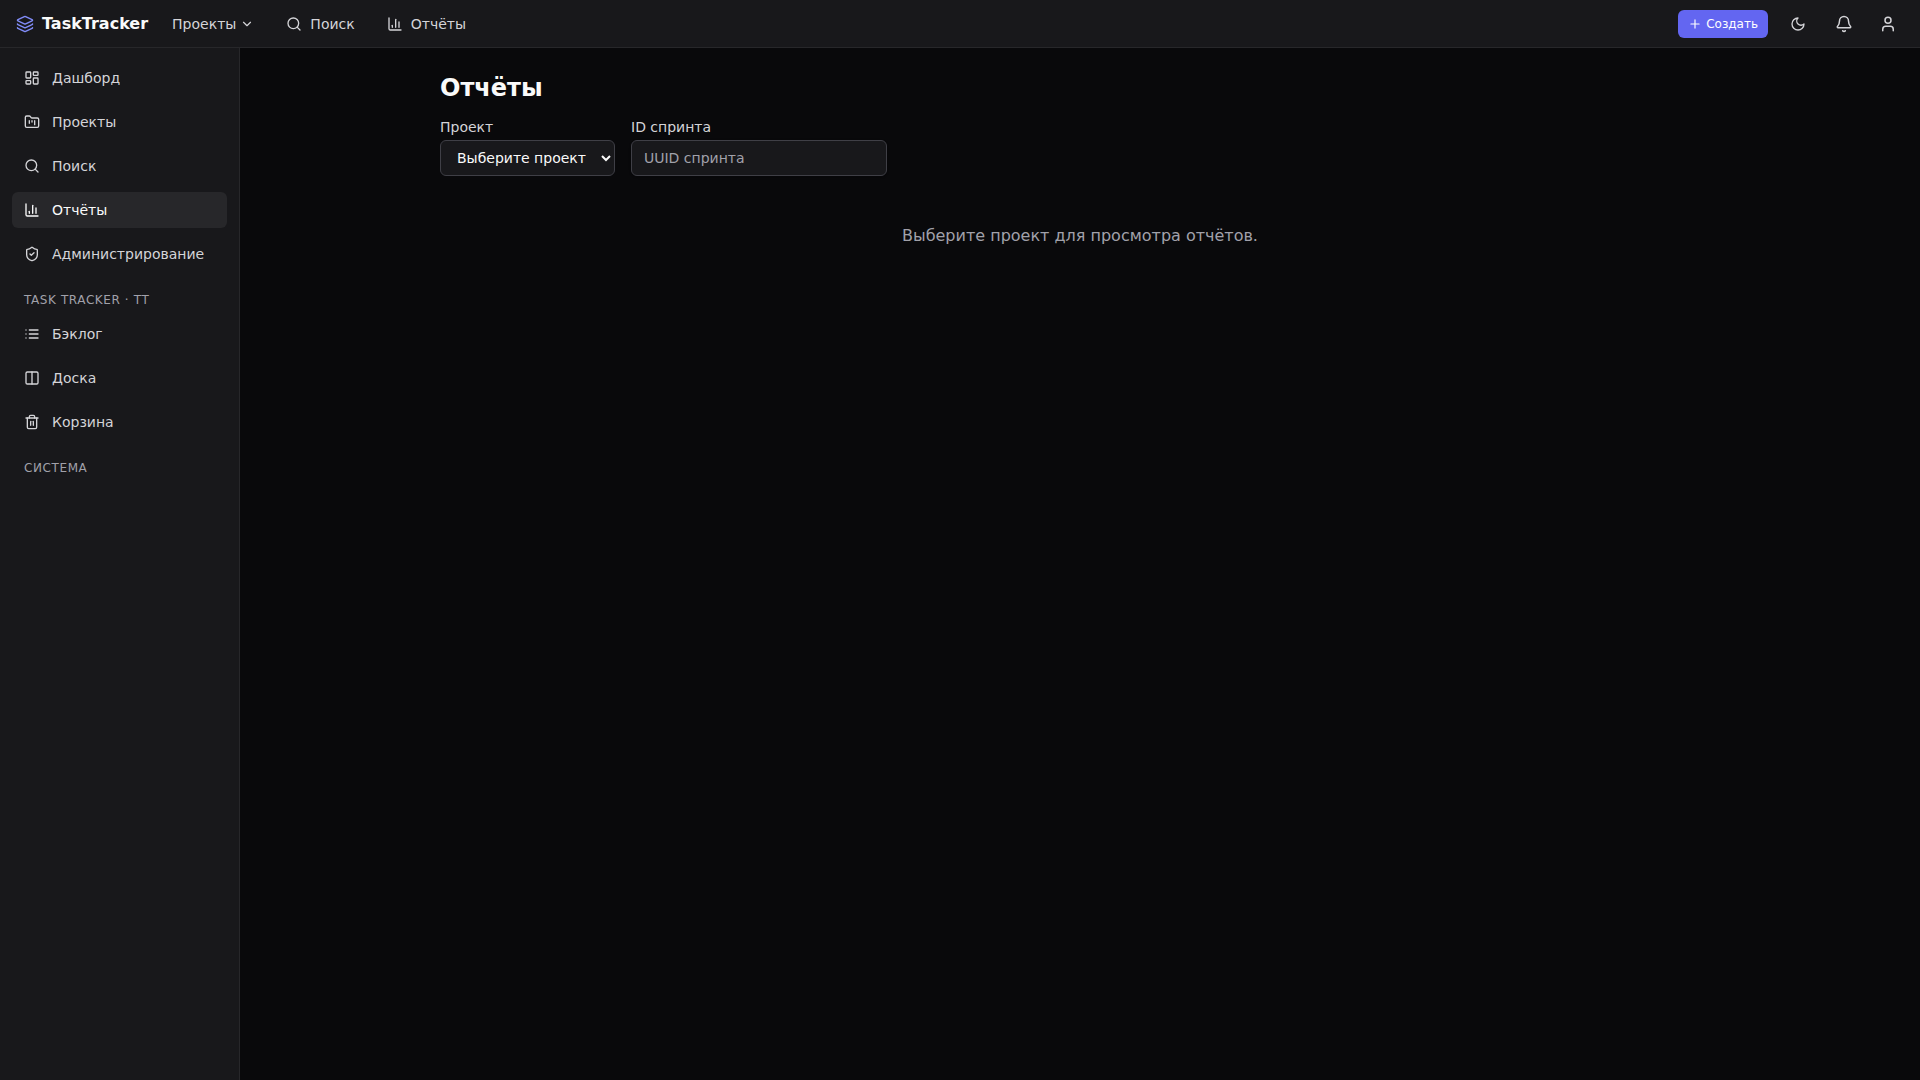
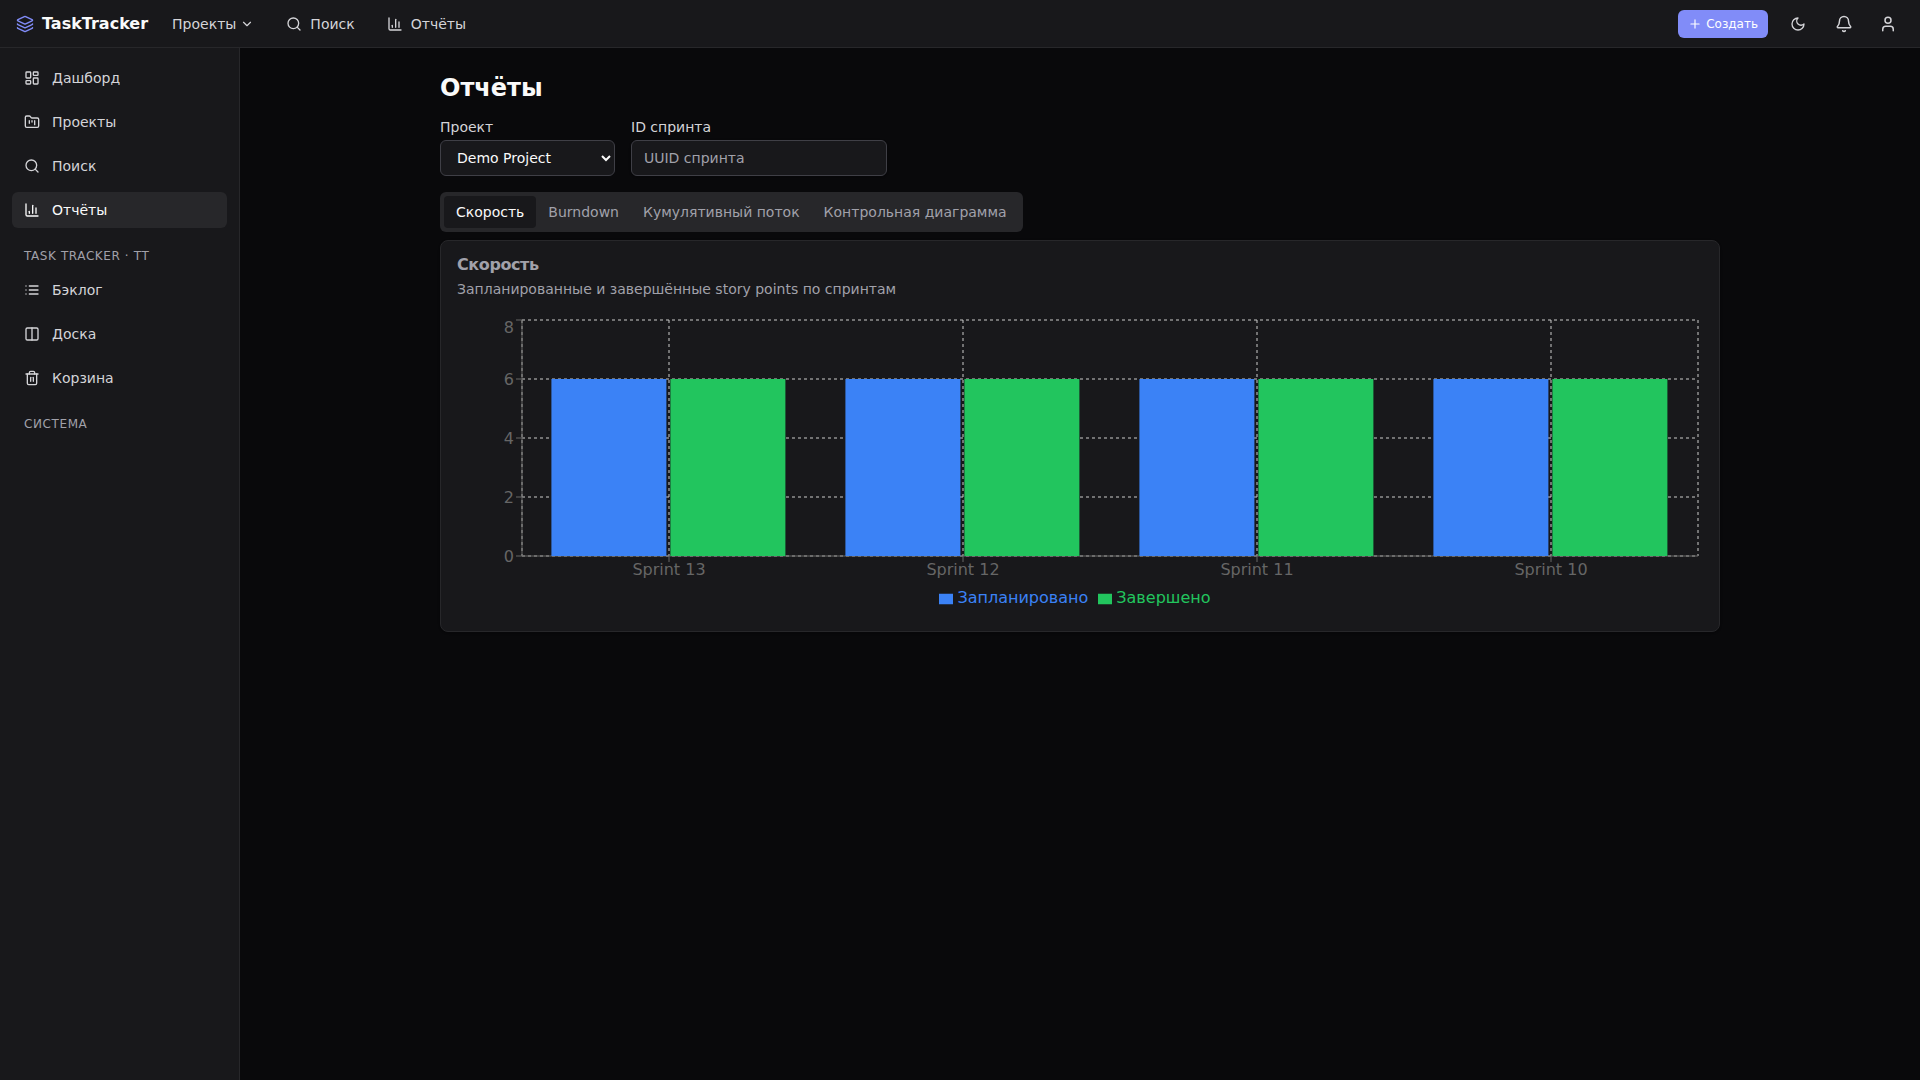
docs: reports screenshot with seeded velocity data + reports screenshot spec
Demo data: 4 closed sprints (6 committed / 6 completed each), active sprint
with partial completion (burndown 6→3), status transition history for the
control chart (28 points), worklogs. Screenshot spec is self-contained
(fetches active sprint id, selects Demo Project, captures all 4 report tabs).

diff --git a/frontend/e2e/reports-screenshots.spec.ts b/frontend/e2e/reports-screenshots.spec.ts
@@ -1,0 +1,114 @@
+import { test, expect, Page } from '@playwright/test'
+import { seedIntegrationData } from './setup'
+
+const baseURL = process.env.PLAYWRIGHT_BASE_URL ?? 'http://localhost:4173'
+
+let cachedAuth: { token: string; userId: string; email: string } | null = null
+
+async function authenticate(p: Page) {
+  // One login per worker: reusing the seeded context avoids tripping the
+  // auth rate limiter (5 req / 15 s) with a login per screenshot.
+  if (!cachedAuth) {
+    const ctx = await seedIntegrationData()
+    cachedAuth = { token: ctx.token, userId: ctx.userId, email: 'demo@example.com' }
+  }
+  const { token: access_token, userId: user_id, email } = cachedAuth
+  await p.goto(`${baseURL}/login`)
+  await p.evaluate(
+    (payload: { token: string; userId: string; email: string }) => {
+      // zustand persist stores {state:{...},version:0}; the app rehydrates from .state.
+      window.localStorage.setItem(
+        'task-tracker-auth',
+        JSON.stringify({ state: payload, version: 0 }),
+      )
+    },
+    { token: access_token, userId: user_id, email },
+  )
+}
+
+async function setThemeAndGoto(p: Page, theme: 'light' | 'dark', path: string, marker: string) {
+  await p.addInitScript((t) => {
+    document.documentElement.classList.toggle('dark', t === 'dark')
+    try {
+      localStorage.setItem('vite-ui-prefers-dark', JSON.stringify(t === 'dark'))
+    } catch {
+      // storage unavailable
+    }
+  }, theme)
+  await p.goto(`${baseURL}${path}`)
+  // SSE connection stays open forever, so networkidle never fires on authed pages.
+  await p.waitForFunction((text: string) => document.body.innerText.includes(text), marker, {
+    timeout: 10_000,
+  })
+  await p.waitForTimeout(300)
+}
+
+test.describe('reports screenshots', () => {
+  test.setTimeout(120_000)
+
+  test.beforeAll(async () => {
+    await seedIntegrationData()
+  })
+
+  const tabs: Array<{ tab: string; trigger: RegExp; name: string; waitFor: string | RegExp }> = [
+    {
+      tab: 'velocity',
+      trigger: /скорость|velocity/i,
+      name: 'velocity',
+      waitFor: 'Sprint 10',
+    },
+    {
+      tab: 'burndown',
+      trigger: /burndown/i,
+      name: 'burndown',
+      waitFor: /оставшиеся|remaining/i,
+    },
+    {
+      tab: 'cumulative-flow',
+      trigger: /кумулятивн|cumulative/i,
+      name: 'cumulative-flow',
+      waitFor: /todo|к выполнению/i,
+    },
+    {
+      tab: 'control-chart',
+      trigger: /контрольн|control chart/i,
+      name: 'control-chart',
+      waitFor: /cycle|цикл/i,
+    },
+  ]
+
+  for (const viewport of [
+    { name: 'fullhd', width: 1920, height: 1080 },
+  ]) {
+    for (const t of tabs) {
+      test(`${t.name} ${viewport.name} screenshot`, async ({ page }) => {
+        await authenticate(page)
+        await page.setViewportSize({ width: viewport.width, height: viewport.height })
+        await setThemeAndGoto(page, 'dark', '/reports', 'Отчёты')
+        // select DEMO project in the picker
+        await page.getByLabel(/проект/i).selectOption({ label: 'Demo Project' })
+        if (t.tab === 'burndown') {
+          // pick the active sprint (burndown needs a sprint id)
+          const res = await page.request.get(
+            `${baseURL.replace(':4173', ':3456')}/api/v1/projects/DEMO/sprints`,
+            { headers: { Authorization: `Bearer ${cachedAuth!.token}` } },
+          )
+          const data = await res.json()
+          const active =
+            data.sprints?.find((sp: { state: string }) => sp.state === 'active') ??
+            data.sprints?.[0]
+          await page.getByLabel(/спринт/i, { exact: false }).fill(active?.id ?? '')
+        }
+        await page.getByRole('tab', { name: t.trigger }).click()
+        // wait for chart content to render
+        await expect(page.locator('.recharts-wrapper').first()).toBeVisible({ timeout: 10_000 })
+        await page.waitForTimeout(600)
+        await page.screenshot({
+          path: `/root/.hermes/cache/images/react-reports-${t.name}-${viewport.name}.png`,
+          fullPage: true,
+          scale: 'css',
+        })
+      })
+    }
+  }
+})
